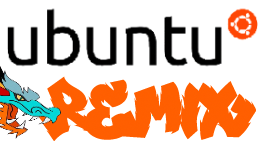
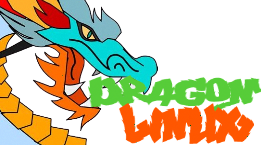
chore: update site

diff --git a/layouts/index.html b/layouts/index.html
@@ -21,7 +21,7 @@
     </div>
     <div class="download-card center-card">
         <i class="big-icon fas fa-arrow-down"></i>
-        <p>Ubuntu Dragon Remix is now released!</p>
+        <p>Dragon Linux is now released!</p>
         <a href="/ubuntu" class="more">Read the announcement<i class="fas fa-angle-right more"></i></a>
     </div>
 </section>

diff --git a/content/ubuntu.md b/content/ubuntu.md
@@ -1,5 +1,5 @@
 ---
-title: Ubuntu Dragon Remix
+title: Dragon Linux
 date:  "2025-01-08T20:00:00+09:00"
 draft: false
 body_class: "landing dragon"
@@ -9,27 +9,27 @@ layout: landing
     <div>
         <div>
             <p>Introducing</p>
-            <h1>Ubuntu Dragon Remix</h1>
+            <h1>Dragon Linux</h1>
             <p>The most Dragonified Linux® to exist.</p>
             <pre><a href="https://sourceforge.net/projects/sujix-linux/files/latest/download"><code id="curl">Download</code></a></pre>
         </div>
         <div>
-            <img src="/img/merge/desktop.png" alt="Ubuntu Dragon Remix on a laptop">
+            <img src="/img/merge/desktop.png" alt="Dragon Linux on a laptop">
         </div>
     </div>
 </section>
 <section class="topic">
 
-## <div>Ubuntu Linux 25 + Dragons = Ubuntu Dragon Remix</div>
+## <div>Ubuntu Linux 25 + Dragons = Dragon Linux</div>
 
-<img width="200" class="w-200" src="/img/far_landing/ubuntu_remix.png">Ubuntu Dragon Remix started out as a simple hobby project to bring Linux to the masses during an era of Linux not becoming mainstream. A time where software was NOT supported across the board like it is now. Now in the modern era of Linux development we came back to revive the project.  We've worked hard in order to bring you a fully integrated distro, cooperating closely to get improvements and bug fixes to users as quickly as possible.
+<img width="200" class="w-200" src="/img/far_landing/ubuntu_remix.png">Dragon Linux started out as a simple hobby project to bring Linux to the masses during an era of Linux not becoming mainstream. A time where software was NOT supported across the board like it is now. Now in the modern era of Linux development we came back to revive the project.  We've worked hard in order to bring you a fully integrated distro, cooperating closely to get improvements and bug fixes to users as quickly as possible.
 
-With Ubuntu's excellent software and hardware support, you can expect a solid and high-quality experience without any unwanted surprises. Ubuntu Dragon Remix is based on Ubuntu Linux 25, the latest Ubuntu Linux release with the newest software versions across the board. We support most AMD and Intel CPU's.
+With Ubuntu's excellent software and hardware support, you can expect a solid and high-quality experience without any unwanted surprises. Dragon Linux is based on Ubuntu Linux 25, the latest Ubuntu Linux release with the newest software versions across the board. We support most AMD and Intel CPU's.
 
 </section>
 <section class="topic">
 
-## <div>Ubuntu Dragon Remix ❤ KDE Plasma</div>
+## <div>Dragon Linux ❤ KDE Plasma</div>
 
 <img width="150" class="w-150" src="/img/far_landing/kde-logo-white-blue-rounded-source.svg">We are proud to offer [KDE Plasma](https://kde.org/plasma-desktop/) as our flagship desktop environment. With leading edge Wayland support and a highly customizable experience plus wide support for many hardware features, KDE Plasma is a joy to use on systems.
 
@@ -55,10 +55,10 @@ Dragon Linux 6.1 comes with [KDE Plasma 6.3](https://kde.org/announcements/plasm
 <img width="200" style="float:unset" src="/img/far_landing/Vulkan_logo.svg"/>
 </p>
 
-Ubuntu Dragon Remix ships the world's first and only certified conformant [OpenGL 4.6](https://www.khronos.org/conformance/adopters/conformant-products/opengl#submission_347), [OpenGL ES 3.2](https://www.khronos.org/conformance/adopters/conformant-products/opengles#submission_1045), [OpenCL 3.0](https://www.khronos.org/conformance/adopters/conformant-products/opencl#submission_433), and
+Dragon Linux ships the world's first and only certified conformant [OpenGL 4.6](https://www.khronos.org/conformance/adopters/conformant-products/opengl#submission_347), [OpenGL ES 3.2](https://www.khronos.org/conformance/adopters/conformant-products/opengles#submission_1045), [OpenCL 3.0](https://www.khronos.org/conformance/adopters/conformant-products/opencl#submission_433), and
 [Vulkan 1.4](https://www.khronos.org/conformance/adopters/conformant-products/vulkan#submission_812) for Apple Silicon.
 
-We support open graphics standards and test against official and industry-standard test suites, which means you can be confident that your apps and games will run correctly and render as they're intended to. Ubuntu Dragon Remix unlocks the full potential of Apple Silicon graphics, well beyond what is possible by layering on top of vendor-proprietary APIs like Metal.
+We support open graphics standards and test against official and industry-standard test suites, which means you can be confident that your apps and games will run correctly and render as they're intended to. Dragon Linux unlocks the full potential of Apple Silicon graphics, well beyond what is possible by layering on top of vendor-proprietary APIs like Metal.
 
 </section>
 <section class="topic">
@@ -66,7 +66,7 @@ We support open graphics standards and test against official and industry-standa
 ## <div>The best Linux laptop audio you've ever heard</div>
 <center>Rewrite In Progress</center>
 
-<img width="200" class="w-200" src="/img/far_landing/curves.svg">We've worked hard to pioneer the world's first fully integrated DSP solution for the desktop Linux ecosystem. Just install Ubuntu Dragon Remix and enjoy high-quality audio right out of the box, no setup needed. We've worked together with the [PipeWire](https://pipewire.org/) and [WirePlumber](https://gitlab.freedesktop.org/pipewire/wireplumber) projects to add support for fully automatic and transparent DSP configuration, and then individually measured and calibrated 8+ different machine models, designing a customized DSP filter configuration for each one.
+<img width="200" class="w-200" src="/img/far_landing/curves.svg">We've worked hard to pioneer the world's first fully integrated DSP solution for the desktop Linux ecosystem. Just install Dragon Linux and enjoy high-quality audio right out of the box, no setup needed. We've worked together with the [PipeWire](https://pipewire.org/) and [WirePlumber](https://gitlab.freedesktop.org/pipewire/wireplumber) projects to add support for fully automatic and transparent DSP configuration, and then individually measured and calibrated 8+ different machine models, designing a customized DSP filter configuration for each one.
 
 With our in-house [Bankstown](https://github.com/chadmed/bankstown) bass boost technology and our own pioneering open source [Smart Amp](https://github.com/AsahiLinux/speakersafetyd) implementation to safely provide full loudness and dynamic range, the result is the best audio you've ever heard on a Linux laptop. And we've even optimized the scheduling and power consumption of the DSP processing, so you'll get excellent battery life while playing back audio.
 
